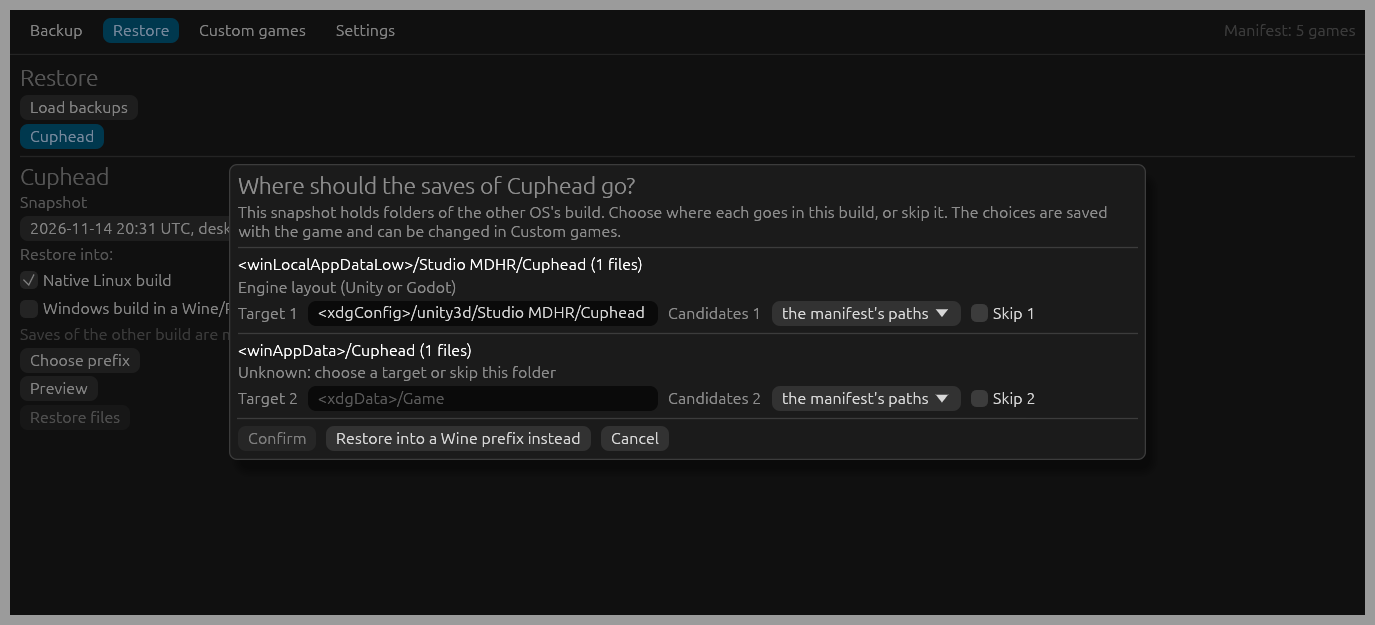
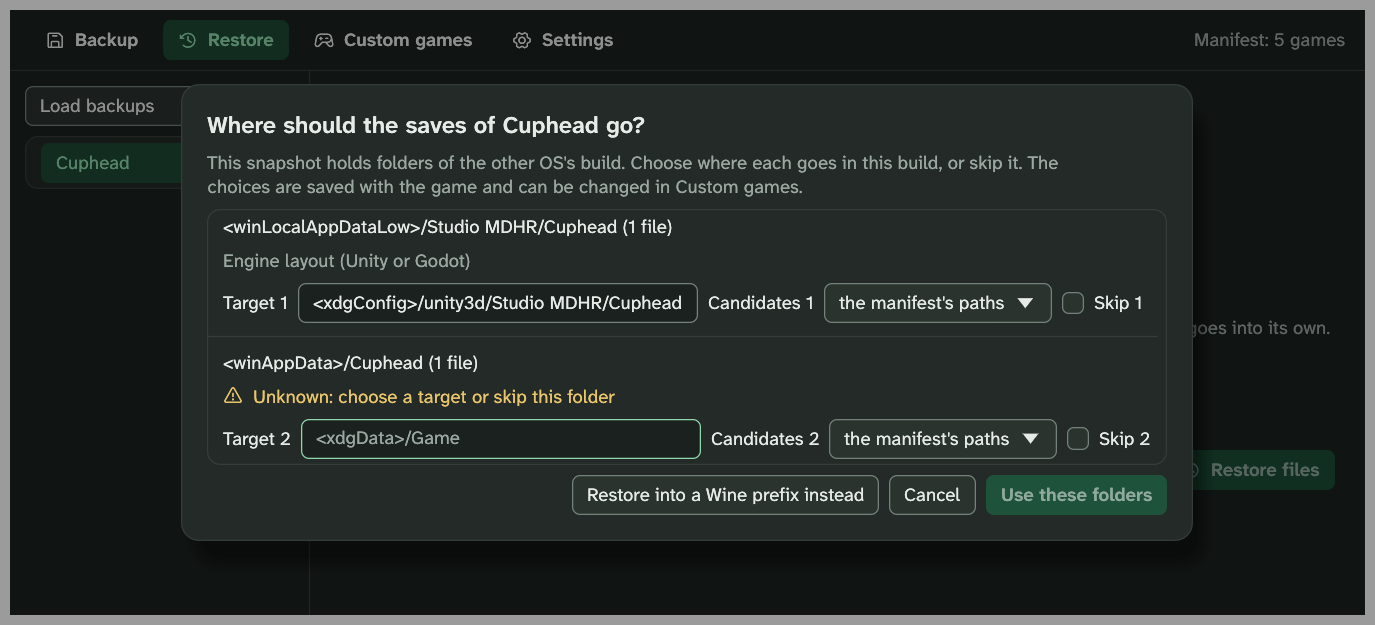
docs: screenshots of the redesigned window
The other screens are taller to show their groups.

diff --git a/crates/salvajocs-gui/tests/appearance.rs b/crates/salvajocs-gui/tests/appearance.rs
@@ -252,7 +252,7 @@ fn backup_tab(dir: &Path, theme: Theme, name: &str) {
         kind: RootKind::WinePrefix,
     }];
     save_config(&env, &config);
-    let mut harness = shot_harness(env, theme, 790.0);
+    let mut harness = shot_harness(env, theme, 750.0);
     run_until_ready(&mut harness);
     run_settled(&mut harness);
 
@@ -636,7 +636,7 @@ fn custom_games_tab() {
         ),
     ];
     save_config(&env, &config);
-    let mut harness = shot_harness(env, Theme::Dark, 720.0);
+    let mut harness = shot_harness(env, Theme::Dark, 900.0);
     run_until_ready(&mut harness);
     harness.state_mut().set_tab(Tab::CustomGames);
     run_settled(&mut harness);
@@ -668,7 +668,7 @@ fn settings_tab() {
         },
     ];
     save_config(&env, &config);
-    let mut harness = shot_harness(env, Theme::Dark, 620.0);
+    let mut harness = shot_harness(env, Theme::Dark, 780.0);
     run_until_ready(&mut harness);
     harness.state_mut().set_tab(Tab::Settings);
     capture(&mut harness, &dir, "settings");
@@ -680,7 +680,7 @@ fn settings_tab() {
 fn first_run_dialog() {
     let Some(dir) = output_dir() else { return };
     let tmp = tempfile::tempdir().unwrap();
-    let mut harness = shot_harness(demo_env(&tmp), Theme::Dark, 480.0);
+    let mut harness = shot_harness(demo_env(&tmp), Theme::Dark, 600.0);
     run_until(&mut harness, "the first-run dialog", |h| {
         shows(h, "Welcome to salvajocs")
     });
